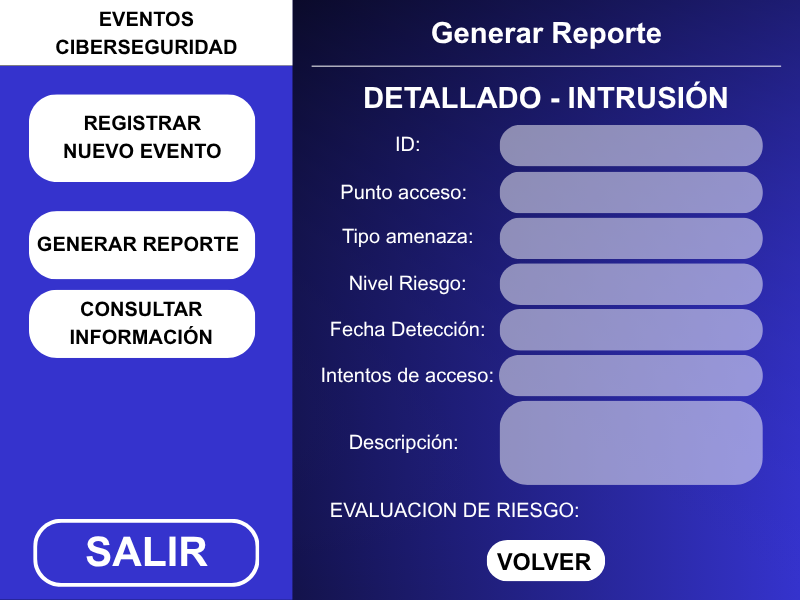
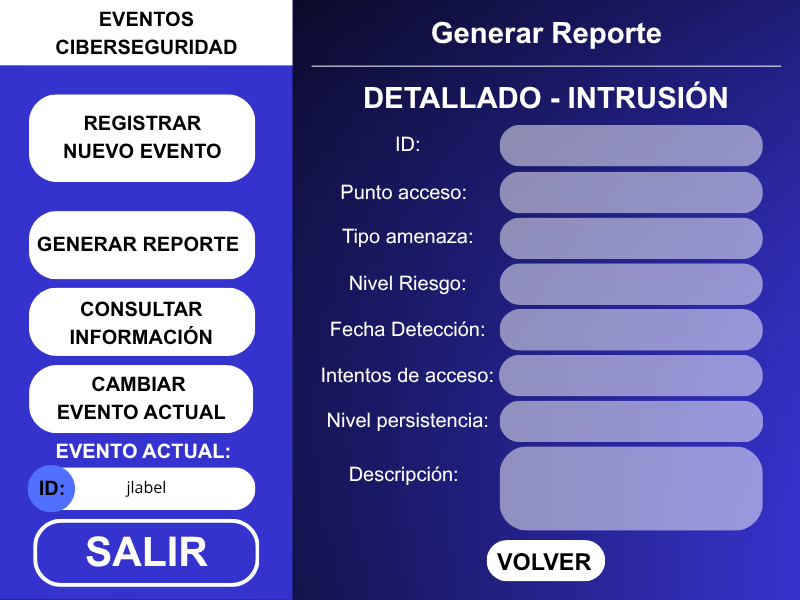
termine las clases y cambie la imagen del reporte detallado de intrusion

diff --git a/src/vista/MainJFrame.java b/src/vista/MainJFrame.java
@@ -2,7 +2,7 @@
  * Click nbfs://nbhost/SystemFileSystem/Templates/Licenses/license-default.txt to change this license
  * Click nbfs://nbhost/SystemFileSystem/Templates/GUIForms/JFrame.java to edit this template
  */
-package laboratorioevaluado;
+package vista;
 
 import javax.swing.JTabbedPane;
 
@@ -391,7 +391,6 @@ public class MainJFrame extends javax.swing.JFrame {
         GenerarReporte.add(detallado, new org.netbeans.lib.awtextra.AbsoluteConstraints(560, 530, 120, 40));
 
         jLabel1.setIcon(new javax.swing.ImageIcon(getClass().getResource("/imagenes/generarReporte.png"))); // NOI18N
-        jLabel1.setPreferredSize(new java.awt.Dimension(800, 600));
         GenerarReporte.add(jLabel1, new org.netbeans.lib.awtextra.AbsoluteConstraints(0, 0, -1, -1));
 
         jTabbedPane1.addTab("tab11", GenerarReporte);
@@ -576,19 +575,19 @@ public class MainJFrame extends javax.swing.JFrame {
         labelIntentosAcceso1.setForeground(new java.awt.Color(255, 255, 255));
         labelIntentosAcceso1.setHorizontalAlignment(javax.swing.SwingConstants.CENTER);
         labelIntentosAcceso1.setText("0");
-        ReporteDetalladoIntrusion.add(labelIntentosAcceso1, new org.netbeans.lib.awtextra.AbsoluteConstraints(510, 367, 240, 20));
+        ReporteDetalladoIntrusion.add(labelIntentosAcceso1, new org.netbeans.lib.awtextra.AbsoluteConstraints(510, 360, 240, 20));
 
         lableDescripcion3.setFont(new java.awt.Font("Segoe UI", 0, 14)); // NOI18N
         lableDescripcion3.setForeground(new java.awt.Color(255, 255, 255));
         lableDescripcion3.setHorizontalAlignment(javax.swing.SwingConstants.CENTER);
-        lableDescripcion3.setText("no hay descripcion");
-        ReporteDetalladoIntrusion.add(lableDescripcion3, new org.netbeans.lib.awtextra.AbsoluteConstraints(510, 410, 240, 70));
+        lableDescripcion3.setText("no hay nivel");
+        ReporteDetalladoIntrusion.add(lableDescripcion3, new org.netbeans.lib.awtextra.AbsoluteConstraints(510, 410, 240, 20));
 
         labelEvaluacionRiesgo1.setFont(new java.awt.Font("Segoe UI", 0, 14)); // NOI18N
         labelEvaluacionRiesgo1.setForeground(new java.awt.Color(255, 255, 255));
         labelEvaluacionRiesgo1.setHorizontalAlignment(javax.swing.SwingConstants.CENTER);
         labelEvaluacionRiesgo1.setText("no hay descripcion");
-        ReporteDetalladoIntrusion.add(labelEvaluacionRiesgo1, new org.netbeans.lib.awtextra.AbsoluteConstraints(580, 495, 190, 30));
+        ReporteDetalladoIntrusion.add(labelEvaluacionRiesgo1, new org.netbeans.lib.awtextra.AbsoluteConstraints(520, 450, 210, 80));
 
         volver7.setBorderPainted(false);
         volver7.setContentAreaFilled(false);

diff --git a/src/modelo/EventoSeguridad.java b/src/modelo/EventoSeguridad.java
@@ -81,14 +81,15 @@ public class EventoSeguridad {
         descripcionJ.setText(descripcion);
     }
     
-    public void GenerarReporteDetallado(JLabel ID, JLabel amenaza, JLabel nivel, JLabel fecha, JLabel descripcionJ){
+    public void GenerarReporteDetallado(JLabel ID, JLabel amenaza, JLabel nivel, JLabel evalRiesgo,JLabel fecha, JLabel descripcionJ){
         ID.setText(idEvento);
         amenaza.setText(tipoAmenaza);
+        nivel.setText(String.valueOf(nivelRiesgo));
         switch (nivelRiesgo){
-            case 1->nivel.setText("Amenaza Leve");
-            case 2->nivel.setText("Amenaza Moderada");
-            case 3->nivel.setText("Amenaza Critica");
-            default->nivel.setText("Sin amenaza detectada");
+            case 1->evalRiesgo.setText("Amenaza Leve");
+            case 2->evalRiesgo.setText("Amenaza Moderada");
+            case 3->evalRiesgo.setText("Amenaza Critica");
+            default->evalRiesgo.setText("Sin amenaza detectada");
         }
         fecha.setText(fechaDeteccion.toString());
         descripcionJ.setText(descripcion);
@@ -103,20 +104,7 @@ public class EventoSeguridad {
         }
     }
 
-    public void mostrarInformacion(){
-        System.out.println("ID del evento: " + idEvento);
-        System.out.println("Tipo de Amenaza: " + tipoAmenaza);
-        System.out.print("Nivel de riesgo: ");
-        switch (nivelRiesgo) {
-            case 1 -> System.out.println("Bajo");
-            case 2 -> System.out.println("Medio");
-            case 3 -> System.out.println("Alto");
-            default -> System.out.println("Nivel de riesgo desconocido (" + nivelRiesgo + ")");
-            }
-        System.out.println("Fecha de deteccion: " + fechaDeteccion);
-        System.out.println("Descripcion: " + descripcion);
-    }
-
+   
     
     
     

diff --git a/src/modelo/EventoIntrusion.java b/src/modelo/EventoIntrusion.java
@@ -81,14 +81,15 @@ public class EventoIntrusion extends EventoSeguridad{
         
     }
 
-    public void GenerarReporteDetallado(JLabel ID, JLabel amenaza, JLabel descripcionJ, JLabel fecha, JLabel intentos, JLabel ptoAcceso, JLabel nivel, JLabel persistencia){
+    public void GenerarReporteDetallado(JLabel ID, JLabel amenaza, JLabel descripcionJ, JLabel fecha, JLabel intentos, JLabel ptoAcceso, JLabel nivel, JLabel evalRiesgo,JLabel persistencia){
         ID.setText(idEvento);
         amenaza.setText(tipoAmenaza);
+        nivel.setText(String.valueOf(nivelRiesgo));
         switch (nivelRiesgo){
-            case 1->nivel.setText("Amenaza Leve");
-            case 2->nivel.setText("Amenaza Moderada");
-            case 3->nivel.setText("Amenaza Critica");
-            default->nivel.setText("Sin amenaza detectada");
+            case 1->evalRiesgo.setText("Amenaza Leve");
+            case 2->evalRiesgo.setText("Amenaza Moderada");
+            case 3->evalRiesgo.setText("Amenaza Critica");
+            default->evalRiesgo.setText("Sin amenaza detectada");
         }
         fecha.setText(fechaDeteccion.toString());
         descripcionJ.setText(descripcion);
@@ -114,7 +115,8 @@ public class EventoIntrusion extends EventoSeguridad{
         super.analizarImpacto();
         //si se superan los 10 intentos y el nivel de riesgo es alto alerta critica
         if ((nivelRiesgo == 3) && (intentosAcceso >= 10)){
-            System.out.println("ALERTA CRITICA: Posible compromiso de sistema");
+            JOptionPane.showMessageDialog(null,"ALERTA CRITICA: Posible compromiso del sistema" , "Analisis de impacto", JOptionPane.INFORMATION_MESSAGE); 
+
         }
     }
    
